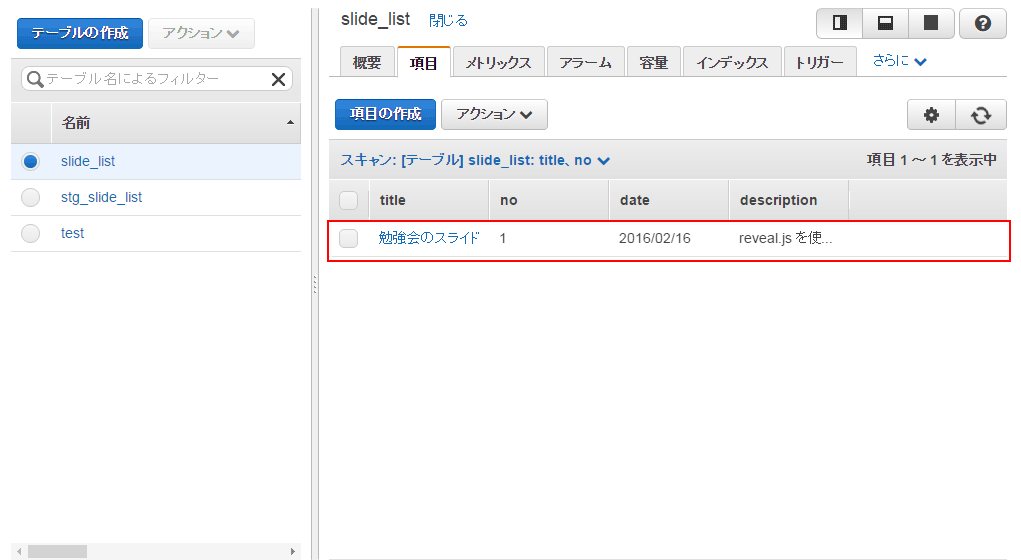
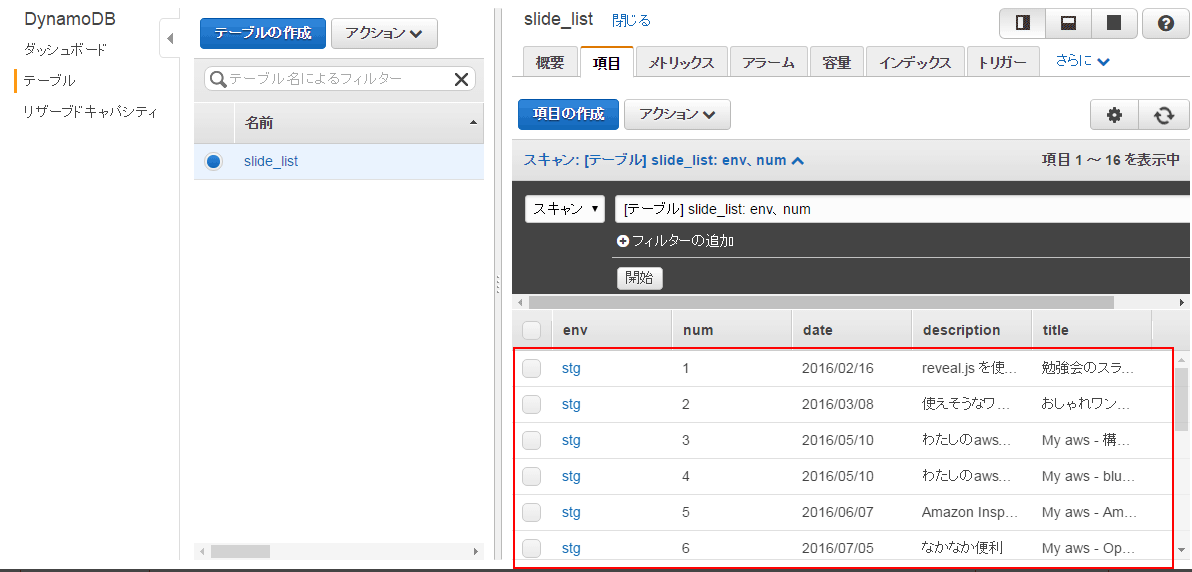
lambda編

diff --git a/src/slides/md/0011.md b/src/slides/md/0011.md
@@ -1,14 +1,14 @@
-# My aws - Lambda + API Gateway + DynamoDB 前編
+# My aws - Lambda + API Gateway + DynamoDB編
 
 @kaotil
 
-2016/00/00
+2016/09/13
 
 
 
 ## Lambda と API Gateway を使ってみたい
 
-勉強会のスライド一覧を、API Gateway 経由で Lambda を実行して DynamoDB に登録、更新、削除、取得するするようにしよう。
+勉強会のスライド一覧を、API Gateway 経由で Lambda を実行して DynamoDB に登録、更新、削除、取得するするようにします。
 
 
 
@@ -47,7 +47,7 @@ Java Scriptから呼び出したい
   - Deployment stage: prod
   - Security: Open
 
-- Securityは、AWS IAM、Open、Open with access keyがあるけど、今はOpenにして後でcognitoを検討する。
+- Securityは、AWS IAM、Open、Open with access keyがあります。今はOpenにして後でcognitoを検討する。
 
 
 
@@ -135,13 +135,13 @@ API Gatewayの画面見るとAPIが出来てる
 
 
 
-### 9. DynamoDB作る
+### 9. DynamoDBのテーブルを作る
 
 ![DynamoDB create table](/slides/img/0011/dynamodb_create_table.png)<!-- .element: class="img_55" -->
 
 - テーブル名: slide_list
-- プライマリキー: title / 文字列
-- ソートキー: no / 数値
+- プライマリキー: env / 文字列
+- ソートキー: num / 数値
 
 
 
@@ -167,9 +167,9 @@ API Gatewayの画面見るとAPIが出来てる
 
 
 
-- DynamoDbの画面
+- DynamoDBの画面
 
-レコードが登録出来されている
+がんばって全レコード登録した
 
 ![DynamoDB slide_list](/slides/img/0011/dynamodb_slide_list.png)<!-- .element: class="img_80" -->
 
@@ -183,42 +183,199 @@ API Gatewayの画面見るとAPIが出来てる
 
 
 
-- リクエスト本文を入力して実行
+- リクエスト本文に一覧取得用のJSONを入力して実行
 - レコードが取得出来た
 
-![API Gateway test](/slides/img/0011/api_gateway_test.png)<!-- .element: class="img_80" -->
+![API Gateway test](/slides/img/0011/api_gateway_test.png)<!-- .element: class="img_90" -->
 
 
 
-### put, delete, scan 
+### Lambda functionをちょっと改修
+
+```
+// メンテされないSDKなのでやめる
+//let doc = require('dynamodb-doc');
+//let dynamo = new doc.DynamoDB();
+
+// こっちのSDKにする
+var AWS = require("aws-sdk");
+var dynamo = new AWS.DynamoDB.DocumentClient();
+
+// 登録
+dynamo.put(event.payload, callback);
+
+// 更新
+dynamo.update(event.payload, callback);
+
+// 削除
+dynamo.delete(event.payload, callback);
+
+```
 
 
 
-### DynamoDBのcliコマンド
+一覧取得（scan）のJSON
+
+```
+{
+  "operation": "scan",
+  "payload": {
+    "TableName": "slide_list",
+    "FilterExpression": "env = :val",
+    "ExpressionAttributeValues": {
+      ":val": "prd"
+    }
+  }
+}
+```
 
 
 
-### 独自ドメイン設定
+一覧取得（query）のJSON
+
+```
+{
+  "operation": "query",
+  "payload": {
+    "TableName": "slide_list",
+    "KeyConditionExpression": "env = :val",
+    "ExpressionAttributeValues": {
+      ":val": "prd"
+    },
+    "ScanIndexForward": "false"
+  }
+}
+```
 
 
 
-### バージョンごとにする
+登録（create）のJSON
+
+```
+{
+  "operation":"create",
+  "payload":{
+    "TableName":"slide_list",
+    "Item":{
+      "env":"prd",
+      "num":1,
+      "date":"2016/02/16",
+      "title": "勉強会のスライドをマークダウンで書きたい！",
+      "description ":"reveal.js を使ってマークダウンでスライドを作ります"
+    }
+  }
+}
+```
 
 
 
-# 参考サイト
+更新（update）のJSON
 
-[Amazon API Gateway の API を Cognito で認証して呼び出す](http://dev.classmethod.jp/cloud/aws/api-gateway-cognito-auth/)
-[（祝）AWS LambdaのVPC利用が可能になりました](http://dev.classmethod.jp/cloud/aws/aws-lambda-vpc/)
+```
+{
+  "operation": "update",
+  "payload": {
+    "TableName" : "slide_list",
+    "Key" : {
+        "env": "prd",
+        "num": 1
+    },
+    "UpdateExpression" : "set title = :v",
+    "ExpressionAttributeValues" : {":v" : "test1"},
+    "ReturnValues" : "UPDATED_NEW"
+  }
+}
+```
 
 
 
+削除（delete）のJSON
+
+```
+{
+  "operation":"delete",
+  "payload":{
+    "TableName":"slide_list",
+    "Key":{
+      "env":"prd",
+      "num":8
+    }
+  }
+}
+```
 
 
 
+### API Gateway の独自ドメイン設定
+
+- API Gatewayでカスタムドメインを設定できるけど、API GatewayはHTTPSアクセスのみなので証明書の設定が必要。
+
+- ACMで取得した証明書は秘密鍵をダウンロードできないのでこの機能は使えない。
 
 
 
+#### ということで別のやり方
+
+- CloudFront の Origin に API Gateway のドメインを指定する
 
 
+
+#### イメージ図
+
+![Original domain image](/slides/img/0011/cloudfront_to_api_gateway.png)<!-- .element: class="img_90" -->
+
+
+
+### 12. CloudFrontのDistribution作成
+
+![Cloudfront create distributions](/slides/img/0011/cloudfront_create_distribution.png)<!-- .element: class="img_90" -->
+
+
+
+#### 設定項目
+
+- Ogigin Setting
+  - Origin Domain Name: XXXX.execute-api.ap-northeast-1.amazonaws.com
+  - Origin Path: 空白
+  - Origin ID: 勝手に入る
+  - Origin Protocol Policy: HTTPS Only
+- Default Cache Behavior Settings
+  - Viewer Protocol Policy: HTTPS Only
+  - Allowd HTTP Methods: GET, HEAD, OPTIONS, PUT, POST, PATCH, DELETE
+
+
+
+- Distribution Settings
+  - Alternate Domain Names(CNAMEs): api.kaotil.com
+  - SSL Certificate: Custom SSL Certificate
+    - US-East (N. Virginia) RegionのACMで作った証明書しか使えないと書いてあるので発行した。
+
+反映まで15分はかかる
+
+
+
+### 13. Route53の登録
+
+- Name: api.kaotil.com
+- Type: A - IPv4 address
+- Alias: Yes
+- Alias Target: Cloudfrontのドメインを選択
+
+
+
+### 14. 独自ドメインでAPI実行
+
+![API Gateway execute](/slides/img/0011/api_gateway_execute.png)<!-- .element: class="img_90" -->
+
+取得できました！
+
+
+
+### 参考サイト
+
+- [Amazon API Gateway の API を Cognito で認証して呼び出す](http://dev.classmethod.jp/cloud/aws/api-gateway-cognito-auth/)
+- [（祝）AWS LambdaのVPC利用が可能になりました](http://dev.classmethod.jp/cloud/aws/aws-lambda-vpc/)
+- [Node.js+Dynamo DBでレコードを検索する](http://tech.sanwasystem.com/entry/2016/01/20/143533)
+- [AWS Lambda で Node.js 4.3 の Promise を使ってみた](https://www.saintsouth.net/blog/how-to-use-promise-of-nodejs43-in-aws-lambda/)
+- [Lambda + API Gateway を任意のドメイン（SSL）で使用する方法を調べてみた](http://qiita.com/pm11op/items/7449ed600c02fb70cbf4)
 

diff --git a/src/slides/md/0010.md b/src/slides/md/0010.md
@@ -2,7 +2,7 @@
 
 @kaotil
 
-2016/00/00
+2016/09/13
 
 
 
